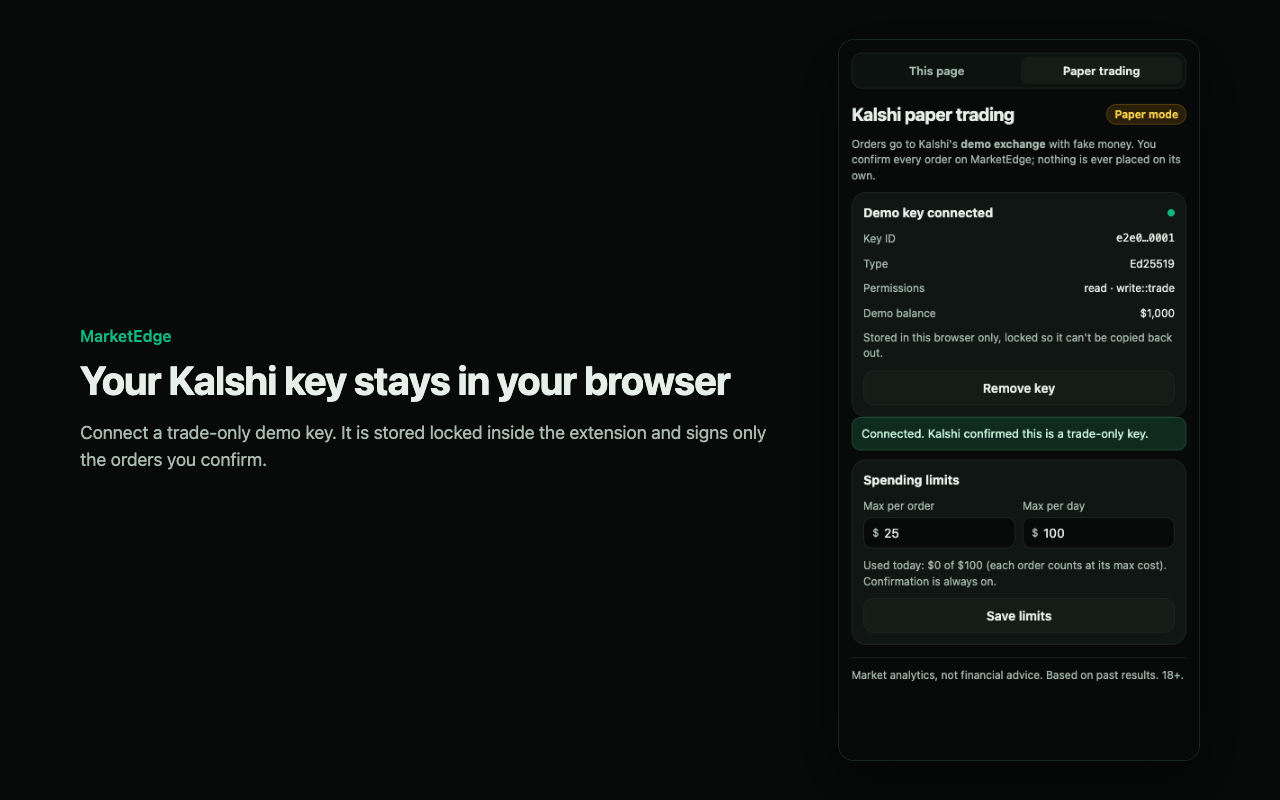
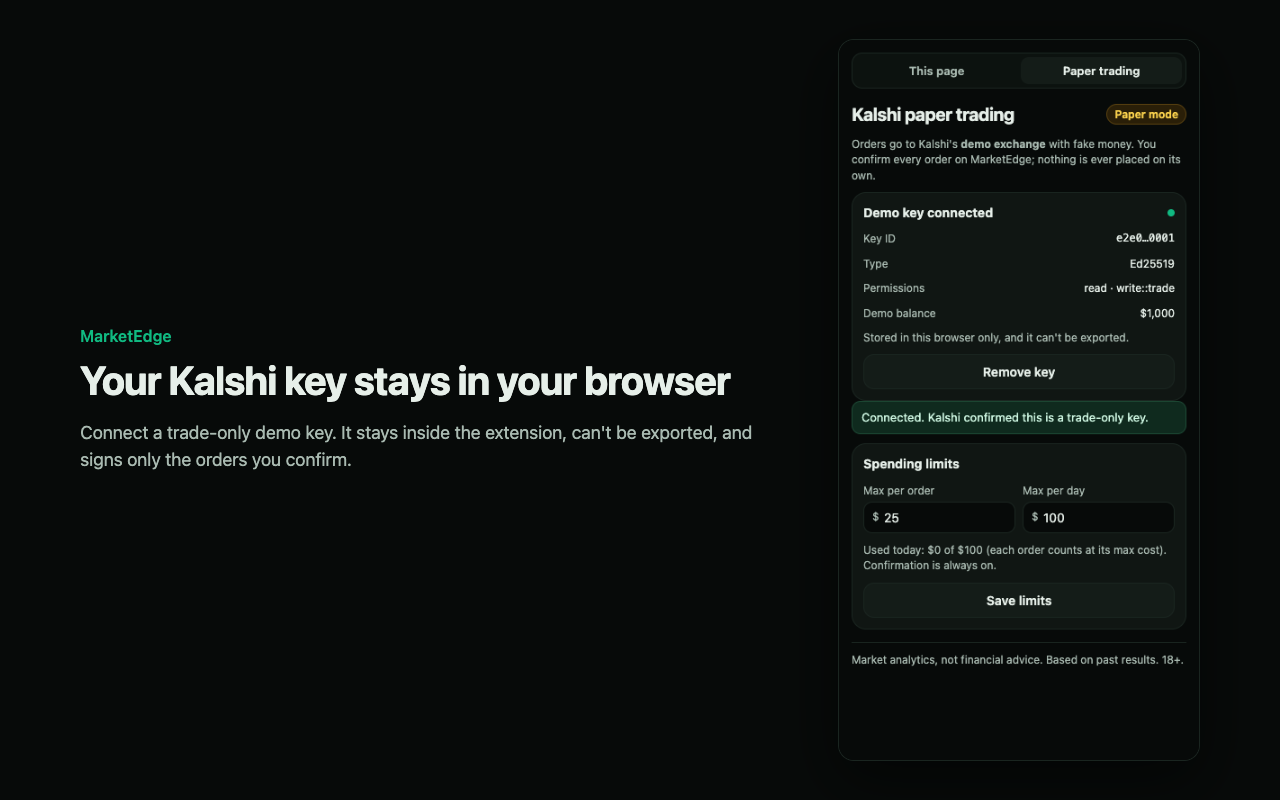
T-58: reword key-vault copy (no banned words), regenerate store screenshots

diff --git a/apps/extension/src/vault-ui.ts b/apps/extension/src/vault-ui.ts
@@ -42,7 +42,7 @@ function connected(s: Status) {
     <div class="row small"><span class="muted">Type</span><span>${s.keyType === "ed25519" ? "Ed25519" : "RSA"}</span></div>
     <div class="row small"><span class="muted">Permissions</span><span>${s.scopes.map(esc).join(" · ")}</span></div>
     ${s.balanceCents != null ? `<div class="row small"><span class="muted">Demo balance</span><span>${money(s.balanceCents / 100)}</span></div>` : ""}
-    <p class="small muted" style="margin-bottom:0">Stored in this browser only, locked so it can't be copied back out.</p>
+    <p class="small muted" style="margin-bottom:0">Stored in this browser only, and it can't be exported.</p>
     <button class="btn" id="disconnect">Remove key</button>
   </section>`;
 }

diff --git a/apps/web/e2e/trading-paper.spec.ts b/apps/web/e2e/trading-paper.spec.ts
@@ -221,6 +221,6 @@ async function storeShots(p: Page) {
   };
   await copy("ticket", "1-paper-ticket.png");
   await copy("journal", "2-my-bets.png");
-  await frame("3-key-vault.png", "Your Kalshi key stays in your browser", "Connect a trade-only demo key. It is stored locked inside the extension and signs only the orders you confirm.", ["panel"]);
+  await frame("3-key-vault.png", "Your Kalshi key stays in your browser", "Connect a trade-only demo key. It stays inside the extension, can't be exported, and signs only the orders you confirm.", ["panel"]);
   await frame("4-popup.png", "Sign-in, plan and status at a glance", "Open MarketEdge or the side panel from any tab.", ["popup"]);
 }

diff --git a/docs/STORE_LISTING.md b/docs/STORE_LISTING.md
@@ -17,8 +17,8 @@ On Polymarket event pages, a small badge sits next to each outcome MarketEdge co
 both sides, the price check and the details behind each number: sample size, model level and backtest record.
 
 Paper trading (optional): connect a trade-only key from Kalshi's demo exchange and place practice orders from
-MarketEdge with fake money. Every order needs your confirmation. The key stays in your browser, locked so it
-can't be copied back out, and MarketEdge's servers never see it.
+MarketEdge with fake money. Every order needs your confirmation. The key stays in your browser, can't be
+exported, and MarketEdge's servers never see it.
 
 - Badges on Polymarket event pages (MarketEdge Premium)
 - Side panel with the full market view
